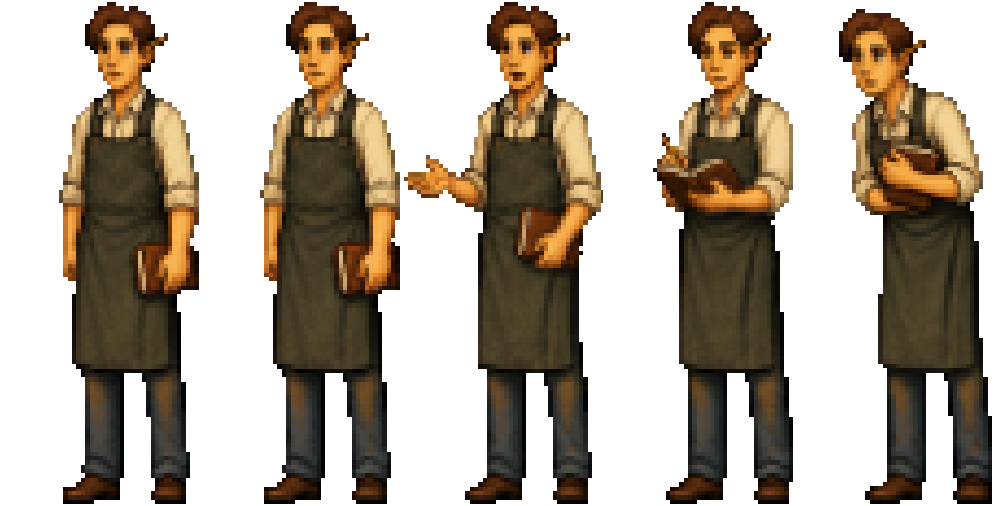
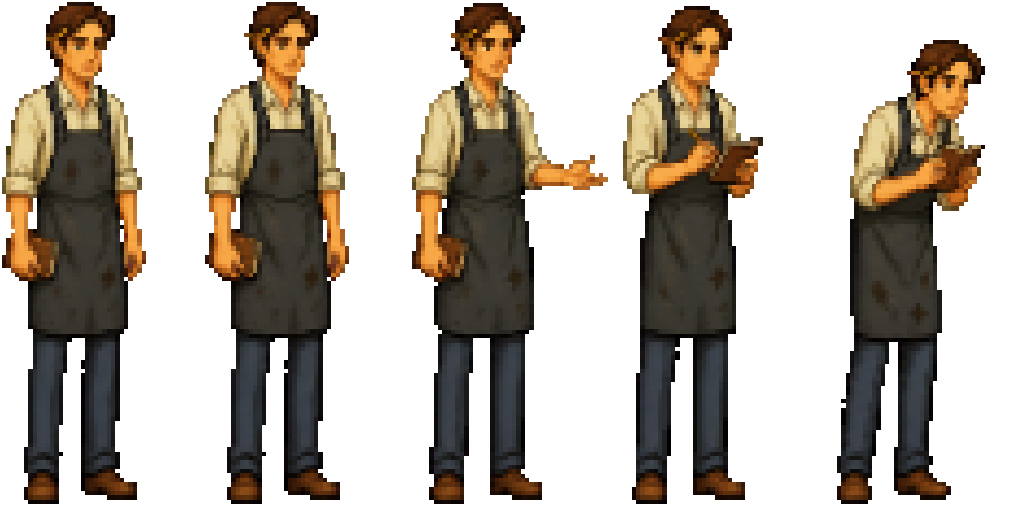
Frame redrawn whole, at Thad's proportions (errata 145)
Tyler: "Yes do it." Cast-unify 70: Frame painted over the in-game Thad with
only his face as reference (errata 144's method). By ruler his head is now
Thad's (~40 of 300, was ~45 live and ~60 originally). Same notebook poses,
same crown-to-sole height.

Lesson: none -- a redraw on Tyler's note, by the method errata 144 recorded.

Claude-Session: https://claude.ai/code/session_01FXbCupzwLJAEr7fqqWYP8A

diff --git a/tools/art/leaner-cast.py b/tools/art/leaner-cast.py
@@ -49,7 +49,9 @@ def figure_height(sheet, frames, hat=False):
 
 
 def frame():
-    sheet = 'art/staging/cast-unify/batch-32/sheet.png'
+    # Cast-unify 70 (batch-41): painted over the in-game Thad with only his face as reference (errata 144's
+    # method; 62, batch-32, kept the cast sheet's head, ~1.12x the in-game Thad's).
+    sheet = 'art/staging/cast-unify/batch-41/sheet.png'
     rec_p = 'content/ambient/frame.json'; rec = read(rec_p)
     out = 'art/actors/room-09-frame-master.png'
     cut = json.loads(py('tools/art/cast-unify-cut.py', sheet, '0', str(rec['sprite']['figureHeight']),

diff --git a/docs/00-errata.md b/docs/00-errata.md
@@ -3956,3 +3956,9 @@ Tyler, of 138's leaner judges: **"This head still seems weirdly large."** Then, 
 - **The lesson, for every future redraw:** show the generator the in-game Thad as the only full figure, and the character only as a face. Measure heads by ruler against the in-game Thad (`renders/thad-in-game-vs-cast-sheet-heads.png`), never against the cast sheet.
 
 **Operations:** 67-69, 69 of 75 cast-unify spent. Before and after, beside Thad in their rooms, against the drawings before 138: `renders/leaner-cast-duel-judge-*-before-after.png`, `renders/leaner-cast-seated-judge-*-before-after.png`. Left for the playthrough: the bearded judge seated wears a gold watch chain in two of his four poses, which his design does not have.
+
+---
+
+# 145 · FRAME REDRAWN WHOLE, AT THAD'S PROPORTIONS — TYLER, 2026-11-07
+
+Tyler, offered Frame by errata 144's method: **"Yes do it."** 138's leaner Frame (cast-unify 62) still had the cast sheet's head, about 1.12× the in-game Thad's by ruler. **Cast-unify 70** (batch-41; `reference/cast-unify-41.txt`) painted him over the in-game Thad four times, with only his face as reference: the same editor -- untidy brown hair, pencil, rolled sleeves, ink-stained apron -- with his notebook in every pose (rest, talking, writing a quote, leaning in). By ruler at one man's height his head is now Thad's: crown to chin ~40, against Thad's 40, the live 62's ~45 and the original's ~60 (`renders/leaner-cast-frame-heads-ruler.png`). He is cut as before (`tools/art/leaner-cast.py frame`), at the same crown-to-sole height. Before and after beside Thad in the Clarion: `renders/leaner-cast-frame-before-after.png`. **Seventy of seventy-five cast-unify operations spent.**
